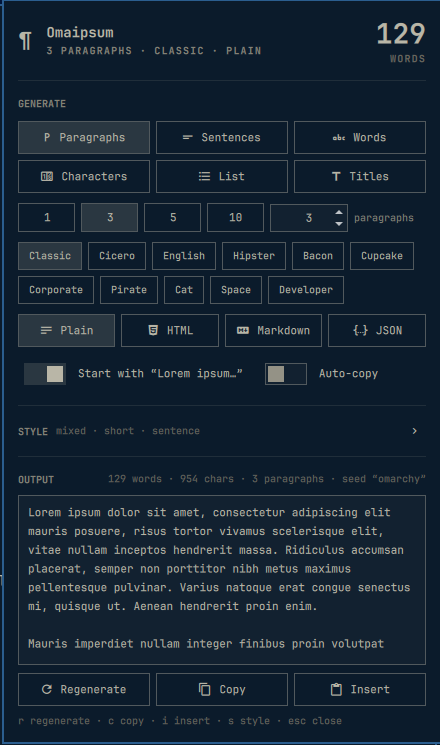
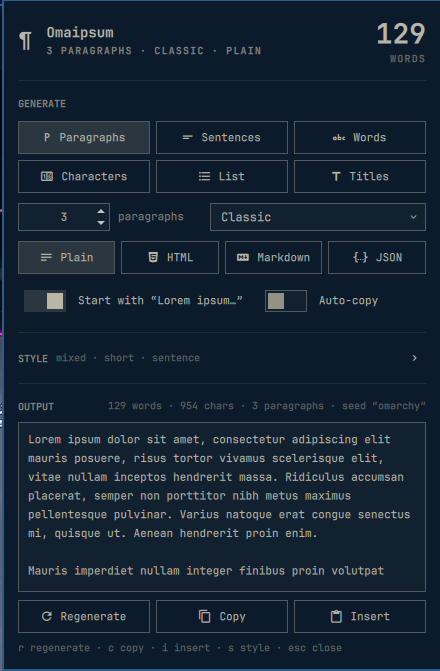
Simplify the generate row: count field plus flavor dropdown
Drop the count preset chips and the flavor chip flow; the count input
and a flavor select now share one row. Re-render the cover with the
shorter panel.

Claude-Session: https://claude.ai/code/session_01EuwFqGm3zo6wkNR2vwLsEs

diff --git a/Panel.qml b/Panel.qml
@@ -41,6 +41,7 @@ Panel {
   property string pendingInsert: ""
 
   readonly property var unit: Model.unitById(opts.unit)
+  readonly property var flavorOptions: Model.FLAVORS.map(function(f) { return { value: f.id, label: f.name } })
   readonly property string summary: Model.describe(opts)
   readonly property string statsLine: {
     var s = root.result.stats
@@ -360,7 +361,7 @@ Panel {
       id: keyCatcher
       anchors.fill: parent
       clip: true
-      blocked: seedField.activeFocus || countField.field.activeFocus
+      blocked: seedField.activeFocus || countField.field.activeFocus || flavorSelect.popupOpen
       onCloseRequested: root.close()
       onTabRequested: function(direction) {
         if (root.bar && typeof root.bar.switchPanelFrom === "function")
@@ -514,26 +515,11 @@ Panel {
               }
             }
 
+            // Count and flavor share one row: "3 paragraphs  [Classic v]".
             Row {
               id: countRow
               width: parent.width
-              spacing: Style.space(6)
-
-              readonly property var presets: root.unit.presets
-              readonly property real cellWidth:
-                (width - spacing * (presets.length + 1) - countField.width - countNoun.width) / presets.length
-
-              Repeater {
-                model: countRow.presets
-
-                Chip {
-                  required property var modelData
-                  width: countRow.cellWidth
-                  text: String(modelData)
-                  active: root.opts.count === modelData
-                  onClicked: root.setOpt("count", modelData)
-                }
-              }
+              spacing: Style.space(8)
 
               NumberField {
                 id: countField
@@ -542,7 +528,7 @@ Panel {
                 accent: Color.accent
                 fontFamily: root.fontFamily
                 fontSize: Style.font.bodySmall
-                fieldWidth: Style.space(78)
+                fieldWidth: Style.space(92)
                 value: root.opts.count
                 from: 1
                 to: root.unit.max
@@ -550,29 +536,25 @@ Panel {
                 onModified: function(v) { root.setOpt("count", v) }
               }
 
-              CaptionText {
+              BodyText {
                 id: countNoun
                 anchors.verticalCenter: parent.verticalCenter
-                width: Style.space(72)
+                width: Style.space(84)
+                color: root.dim
                 text: root.unit.noun + (root.opts.count === 1 ? "" : "s")
               }
-            }
 
-            Flow {
-              width: parent.width
-              spacing: Style.space(6)
-
-              Repeater {
-                model: Model.FLAVORS
-
-                Chip {
-                  required property var modelData
-                  text: modelData.name
-                  fontSize: Style.font.caption
-                  active: root.opts.flavor === modelData.id
-                  tooltipText: modelData.opening ? "“" + modelData.opening + "…”" : "The original De finibus passage"
-                  onClicked: root.setOpt("flavor", modelData.id)
-                }
+              Dropdown {
+                id: flavorSelect
+                anchors.verticalCenter: parent.verticalCenter
+                width: parent.width - countField.width - countNoun.width - parent.spacing * 2
+                showLabel: false
+                foreground: root.fg
+                accent: Color.accent
+                fontFamily: root.fontFamily
+                value: root.opts.flavor
+                options: root.flavorOptions
+                onChanged: function(v) { root.setOpt("flavor", v) }
               }
             }
 

diff --git a/docs/cover.html b/docs/cover.html
@@ -48,11 +48,11 @@
   .hint { margin-top: 40px; font-size: 19px; color: #6f7886; letter-spacing: 0.3px; white-space: nowrap; }
   .hint span { color: #9aa3b2; }
   .shot {
-    position: absolute; right: 120px; top: 62px; width: 440px; height: 745px;
+    position: absolute; right: 120px; top: 115px; width: 440px; height: 671px;
     box-shadow: 0 40px 100px rgba(0,0,0,0.7), 0 0 0 1px rgba(255,255,255,0.06);
     border-radius: 2px;
   }
-  .shot img { display: block; width: 440px; height: 745px; }
+  .shot img { display: block; width: 440px; height: 671px; }
   .badge {
     position: absolute; left: 110px; bottom: 40px; font-size: 17px; color: #6f7886;
   }
